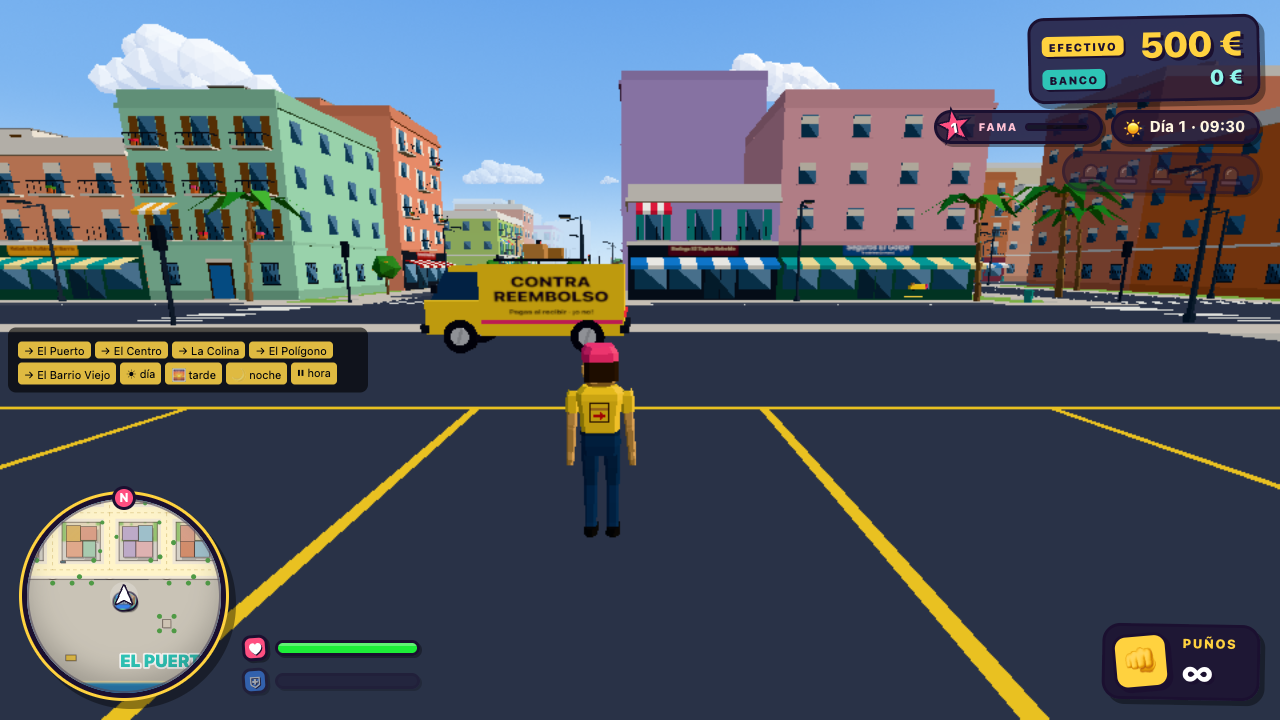
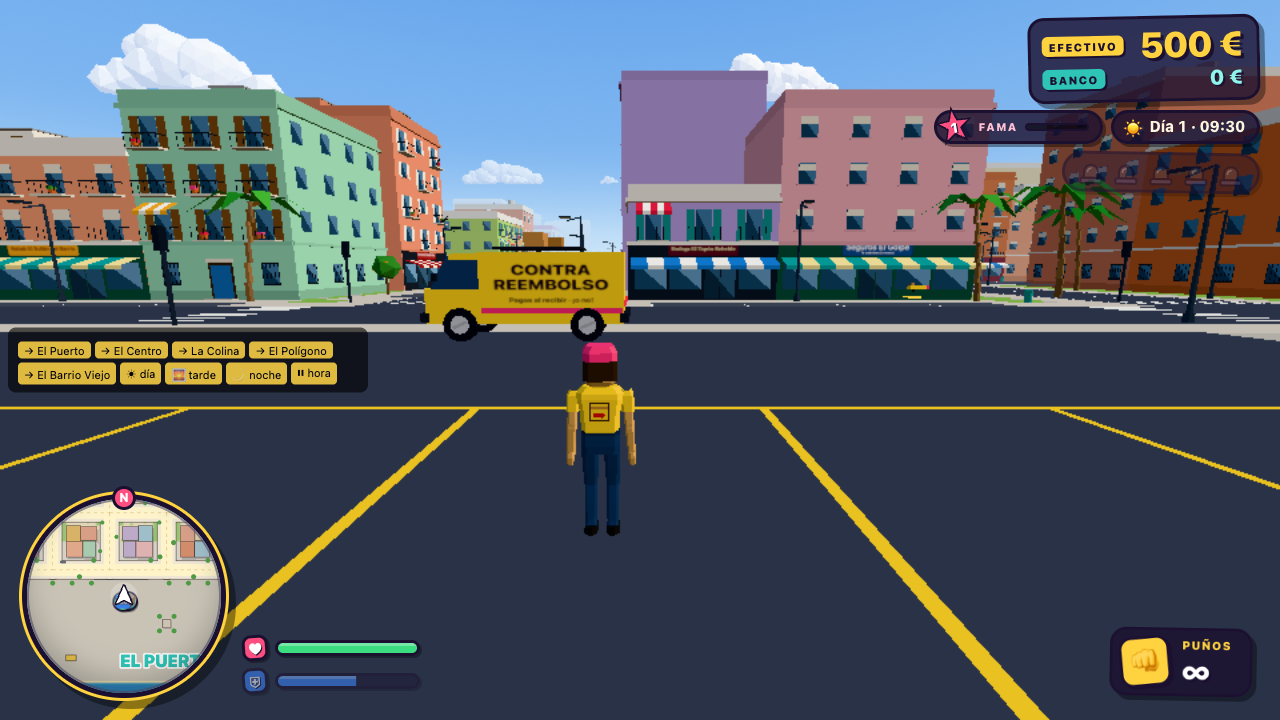
Fase 6 publicada: casino con tres juegos, club VIP, hierbas, ático decorable, interior de la oficina, radio, vehículos y armas locas

diff --git a/tests/juego.spec.ts b/tests/juego.spec.ts
@@ -148,7 +148,10 @@ test('menú principal y creación del repartidor', async ({ page }) => {
 test('tiendas: armería, ropa, taller y empresa', async ({ page }) => {
   test.skip(FASE < 5, 'las tiendas llegan en la fase 5');
   const errors = await arrancar(page);
-  for (const [kind, file] of [['gunshop', '09-armeria'], ['clothes', '10-ropa'], ['garage', '11-taller'], ['office', '12-empresa']]) {
+  // desde la fase 6 la puerta de la oficina lleva al interior (el tablón está dentro)
+  const shops = [['gunshop', '09-armeria'], ['clothes', '10-ropa'], ['garage', '11-taller']];
+  if (FASE < 6) shops.push(['office', '12-empresa']);
+  for (const [kind, file] of shops) {
     await g(page, `__cr.mod.player.teleport(__cr.world.pois.find(p => p.kind === '${kind}').door.clone())`);
     await page.waitForFunction(() => !!(window as any).__cr.mod.interaction.current, null, { timeout: 15_000 });
     await page.keyboard.press('KeyE');
@@ -157,6 +160,39 @@ test('tiendas: armería, ropa, taller y empresa', async ({ page }) => {
     await page.keyboard.press('Escape');
     await page.waitForFunction(() => !(window as any).__cr.mod.shopUI.isOpen, null, { timeout: 15_000 });
   }
+  expect(errors).toEqual([]);
+});
+
+test('la vida de lujo: casino, club, hierbas y vehículo loco', async ({ page }) => {
+  test.skip(FASE < 6, 'llega en la fase 6');
+  test.setTimeout(240_000);
+  const errors = await arrancar(page);
+  await g(page, `__cr.mod.economy.cash = 90000`);
+  // casino
+  await g(page, `__cr.mod.player.teleport(__cr.world.pois.find(p => p.kind === 'casino').door.clone())`);
+  await page.waitForFunction(() => !!(window as any).__cr.mod.interaction.current, null, { timeout: 15_000 });
+  await page.keyboard.press('KeyE');
+  await page.waitForTimeout(3000);
+  await page.screenshot({ path: `${DIR}/13-casino.png` });
+  await page.keyboard.press('Escape');
+  await page.waitForFunction(() => !(window as any).__cr.paused, null, { timeout: 15_000 });
+  // club VIP
+  await g(page, `__cr.mod.player.teleport(__cr.world.pois.find(p => p.kind === 'club').door.clone())`);
+  await page.waitForFunction(() => !!(window as any).__cr.mod.interaction.current, null, { timeout: 15_000 });
+  await page.keyboard.press('KeyE');
+  await page.waitForFunction(() => (window as any).__cr.mod.interiors.inside, null, { timeout: 30_000 });
+  await page.waitForTimeout(2500);
+  await page.screenshot({ path: `${DIR}/14-club.png` });
+  await g(page, `__cr.mod.interiors.exit()`);
+  await page.waitForFunction(() => !(window as any).__cr.mod.interiors.inside, null, { timeout: 30_000 });
+  // hierbas
+  await g(page, `__cr.mod.high.start(20)`);
+  await page.waitForTimeout(4000);
+  await page.screenshot({ path: `${DIR}/15-hierbas.png` });
+  await g(page, `__cr.mod.high.stop()`);
+  // vehículo loco: el carrito del súper
+  const n = await g(page, `__cr.mod.crazy.list.length`);
+  expect(n).toBeGreaterThan(0);
   expect(errors).toEqual([]);
 });
 

diff --git a/src/luxury.ts b/src/luxury.ts
@@ -1,0 +1,43 @@
+// Fase 6 — La vida de lujo: casino, club VIP, hierbas, ático, interior de la oficina y radio.
+import type { Game } from './core/game';
+import type { Interaction } from './gameplay/interact';
+import type { Economy } from './gameplay/economy';
+import { installRadio } from './audio/radio';
+import { installHigh } from './fx/high';
+import { openCasino } from './gameplay/casino';
+import { installClub } from './world/interiors/club';
+import { installAttic } from './world/interiors/attic';
+import { installOfficeInterior } from './world/interiors/office';
+
+const WEED_LINES = [
+  'El vendedor te guiña un ojo: «Esto es de huerto ecológico, hermano. Del huerto de mi primo.»',
+  '«Invita la casa… no, es broma. Son 50 pavos.»',
+  '«Con esto vas a ver los paquetes en 4D, tronco.»',
+  '«Si te para la poli, esto es orégano. Orégano mágico.»',
+];
+
+export function setupLuxury(game: Game) {
+  installRadio(game);
+  installHigh(game);
+  installClub(game);
+  installAttic(game);
+  installOfficeInterior(game);
+
+  const it = game.mod.interaction as Interaction;
+  // casino: se entra y se abre el vestíbulo con los tres juegos
+  it.addPoi('casino', 'Entrar en el Casino La Suerte Loca', () => openCasino(game), 3.5, 6);
+  // el de las hierbas del Barrio Viejo
+  it.addPoi(
+    'weed',
+    () => (game.mod.high?.active ? 'Pedir más (todavía vas servido)' : 'Comprar hierbas (50 €)'),
+    () => {
+      const eco = game.mod.economy as Economy;
+      if (!eco.spend(50, 'hierbas')) return;
+      game.events.emit('toast', { text: WEED_LINES[Math.floor(Math.random() * WEED_LINES.length)], color: '#06d6a0', time: 3.5 });
+      game.mod.audio?.play('cash', { volume: 0.5 });
+      setTimeout(() => game.mod.high?.start(60), 1200);
+    },
+    3.5,
+    6,
+  );
+}

diff --git a/src/setup.ts b/src/setup.ts
@@ -34,6 +34,7 @@ import { PhotoMode } from './ui/photoMode';
 import { Achievements } from './gameplay/achievements';
 import { Daily } from './gameplay/daily';
 import { WeaponSpawns } from './gameplay/weaponSpawns';
+import { setupLuxury } from './luxury';
 import { ShopUI } from './ui/shop';
 import { Shops } from './gameplay/shops';
 import { Company } from './gameplay/company';
@@ -105,7 +106,11 @@ export function setupSystems(game: Game, fase: number, look: CharacterLook = def
     add(new Breakables(game));
     add(new Particles(game));
   }
-  if (fase >= 6) add(new CrazyVehicles(game));
+  if (fase >= 6) {
+    add(new CrazyVehicles(game));
+    setupLuxury(game);
+  }
+  game.mod.fase = fase;
   if (fase >= 9) {
     add(new RandomEvents(game));
     add(new PhotoMode(game));

diff --git a/src/gameplay/shops.ts b/src/gameplay/shops.ts
@@ -222,7 +222,9 @@ export class Shops implements System {
       color: '#e63946',
       icon: '🔫',
       sections: () => {
-        const weapons = WEAPON_ORDER.filter((w) => w !== 'fists').map((w) => {
+        // el paquete FRÁGIL y la pistola de sellos llegan con la fase 6
+        const later = (g.mod.fase ?? 9) < 6 ? ['fragile', 'stamp'] : [];
+        const weapons = WEAPON_ORDER.filter((w) => w !== 'fists' && !later.includes(w)).map((w) => {
           const d = WEAPONS[w];
           const has = combat.owned.has(w);
           const lock = d.crazy ? 2 : w === 'rifle' ? 3 : 1;

diff --git a/src/main.ts b/src/main.ts
@@ -15,7 +15,7 @@ import { registerSaveSections } from './gameplay/saveSections';
 import type { WorldData } from './core/contracts';
 
 /** Fase publicada: los sistemas de fases posteriores no se activan todavía. */
-export const FASE = 5;
+export const FASE = 6;
 
 async function boot() {
   const loading = new LoadingScreen();

diff --git a/PROGRESO.md b/PROGRESO.md
@@ -4,7 +4,18 @@ Enlace: https://agarroda-bit.github.io/contra-reembolso/
 
 Si pierdes el contexto: relee `ENCARGO.md`, este archivo y `DECISIONES.md`, y sigue.
 
-## Fase actual: 6 — La vida de lujo (integrando)
+## Fase actual: 7 — La historia del tablón (integrando)
+
+## Fase 6 — La vida de lujo ✅ (26/09, 07:45, publicada)
+- Casino «La Suerte Loca» (Centro): vestíbulo y tres juegos de verdad con animaciones y sonido: tragaperras «La Paquetera», ruleta europea y blackjack «El 21 del Puerto». Apuestas de 10 a 500 € con el dinero del juego.
+- Club Reembolso VIP (Centro): interior con pista de baile de colores, DJ, focos, bola de espejos y gente bailando; mesa VIP (1.500 €) y botellas de champán (300 €): fiesta con luces, confeti y subida de FAMA. Sin contenido sexual.
+- El de las hierbas (Barrio Viejo): 50 €; efecto psicodélico de pantalla (colores, ondas), cámara lenta, el personaje anda raro, la radio suena distorsionada y salen frases graciosas.
+- El ático (Colina): se compra por 25.000 € y se decora desde la tablet (sofá gigante, tele enorme, jacuzzi, acuario, estatua dorada, cuadros, neones, colección de coches); dormir en la cama pasa al día siguiente, cura y guarda.
+- Interior de la oficina con el tablón de encargos, que cambia con el nivel de la empresa y enseña los lujos comprados (café, sillón, acuario, cuadro, billar).
+- Radio en los vehículos con 3 emisoras de música generada por código (reguetón, electrónica y rumba), locutores y anuncios inventados; Q/E cambia de emisora.
+- Vehículos locos repartidos por la isla: carrito del súper con motor (rueda loca), patinete eléctrico, camión de la basura (lo arrasa todo), carrito de golf y grúa del puerto (el volante va al revés a ratos).
+- Resto de armas locas: paquete FRÁGIL explosivo y pistola de sellos (en la armería y tiradas por la isla).
+- Pruebas: + casino, club, hierbas y vehículos locos (`capturas/fase-6/`).
 
 ## Fase 5 — Tiendas y progreso ✅ (26/09, 07:25, publicada)
 - Menú principal con la isla de fondo (Continuar / Nueva partida / Opciones / Controles), creación del repartidor (nombre, piel, peinado, color de pelo, uniforme, gorra) con vista previa girando, pausa (Esc) y opciones (sensibilidad, invertir eje, volúmenes, calidad baja/media/alta, campo de visión).
